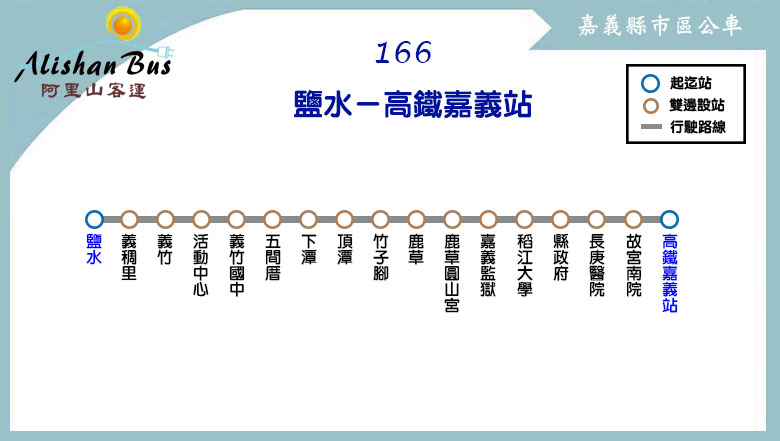
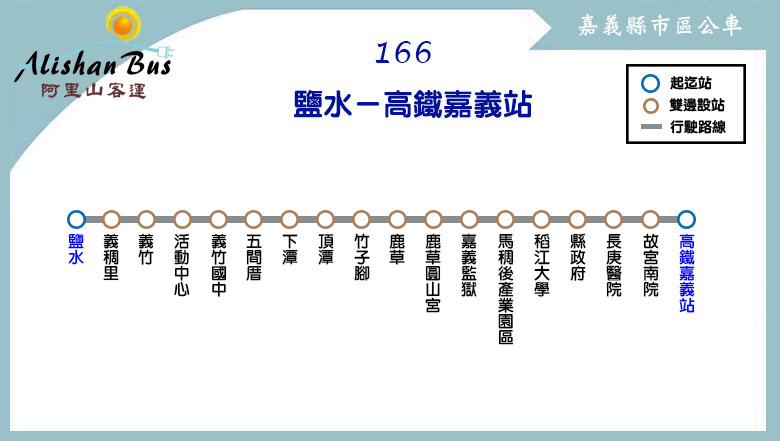
新增站位：阿里山客運166路(增「馬稠後產業園區」)

Changed region(s): [[0.0615, 0.4717, 0.8923, 0.7959]]

diff --git a/route/fare_and_time/hsr_shuttle_166.js b/route/fare_and_time/hsr_shuttle_166.js
@@ -1,4 +1,4 @@
-hsr_shuttle_166_interval_name = ["鹽水","義稠里","義竹","活動<br />中心","義竹<br />國中","五間厝","下潭","頂潭","竹子腳","鹿草","鹿草<br />圓山宮","嘉義<br />監獄","稻江<br />大學","縣政府","長庚<br />醫院","故宮<br />南院","高鐵<br />嘉義站"];
+hsr_shuttle_166_interval_name = ["鹽水","義稠里","義竹","活動<br />中心","義竹<br />國中","五間厝","下潭","頂潭","竹子腳","鹿草","鹿草<br />圓山宮","嘉義<br />監獄","馬稠後<br />產業園區","稻江<br />大學","縣政府","長庚<br />醫院","故宮<br />南院","高鐵<br />嘉義站"];
 hsr_shuttle_166_interval_stop = [
 ["鹽水"], // 鹽水
 ["義稠里"], // 義稠里
@@ -12,6 +12,7 @@ hsr_shuttle_166_interval_stop = [
 ["鹿草"], // 鹿草
 ["鹿草圓山宮"], // 鹿草圓山宮
 ["嘉義監獄"], // 嘉義監獄
+["馬稠後產業園區"], // 馬稠後產業園區
 ["稻江大學"], // 稻江大學
 ["縣政府"], // 縣政府
 ["長庚醫院"], // 長庚醫院
@@ -19,23 +20,24 @@ hsr_shuttle_166_interval_stop = [
 ["高鐵嘉義站"] // 高鐵嘉義站
 ];
 hsr_shuttle_166_fare = [
-[25,22,22,22,22,22,28,31,35,40,41,50,58,63,68,72,82],
-[25,25,22,22,22,22,24,28,31,36,38,46,55,60,64,68,79],
-[25,25,25,22,22,22,22,22,25,31,32,40,49,54,58,62,73],
-[25,25,25,25,22,22,22,22,23,28,30,38,47,52,56,60,71],
-[25,25,25,25,25,22,22,22,22,27,29,37,45,51,55,59,70],
-[25,25,25,25,25,25,22,22,22,22,22,29,38,43,47,51,62],
-[32,28,25,25,25,25,25,22,22,22,22,22,30,35,40,44,55],
-[36,31,25,25,25,25,25,25,22,22,22,22,27,32,36,41,51],
-[39,35,29,26,25,25,25,25,25,22,22,22,24,29,33,37,48],
-[46,41,35,32,31,25,25,25,25,25,22,22,22,23,28,32,42],
-[47,43,36,34,33,25,25,25,25,25,25,22,22,22,26,30,41],
-[57,53,46,44,42,33,25,25,25,25,25,25,22,22,22,22,32],
-[66,62,56,53,52,43,34,31,27,25,25,25,25,22,22,22,24],
-[72,68,61,59,58,49,40,36,33,27,25,25,25,25,22,22,22],
-[77,73,66,64,63,54,45,41,38,31,30,25,25,25,25,22,22],
-[82,78,71,69,67,58,50,46,42,36,35,25,25,25,25,25,22],
-[94,90,83,81,80,70,62,58,55,48,47,37,28,25,25,25,25]
+[25,22,22,22,22,22,28,31,35,40,41,50,54,58,63,68,72,82],
+[25,25,22,22,22,22,24,28,31,36,38,46,50,55,60,64,68,79],
+[25,25,25,22,22,22,22,22,25,31,32,40,45,49,54,58,62,73],
+[25,25,25,25,22,22,22,22,23,28,30,38,42,47,52,56,60,71],
+[25,25,25,25,25,22,22,22,22,27,29,37,41,45,51,55,59,70],
+[25,25,25,25,25,25,22,22,22,22,22,29,33,38,43,47,51,62],
+[32,28,25,25,25,25,25,22,22,22,22,22,26,30,35,40,44,55],
+[36,31,25,25,25,25,25,25,22,22,22,22,23,27,32,36,41,51],
+[39,35,29,26,25,25,25,25,25,22,22,22,22,24,29,33,37,48],
+[46,41,35,32,31,25,25,25,25,25,22,22,22,22,23,28,32,42],
+[47,43,36,34,33,25,25,25,25,25,25,22,22,22,22,26,30,41],
+[57,53,46,44,42,33,25,25,25,25,25,25,22,22,22,22,22,32],
+[61,57,51,48,47,38,29,26,25,25,25,25,25,22,22,22,22,29],
+[66,62,56,53,52,43,34,31,27,25,25,25,25,25,22,22,22,24],
+[72,68,61,59,58,49,40,36,33,27,25,25,25,25,25,22,22,22],
+[77,73,66,64,63,54,45,41,38,31,30,25,25,25,25,25,22,22],
+[82,78,71,69,67,58,50,46,42,36,35,25,25,25,25,25,25,22],
+[94,90,83,81,80,70,62,58,55,48,47,37,33,28,25,25,25,25]
 ];
 // format = [time at the start stop] or
 // [time, other] or
